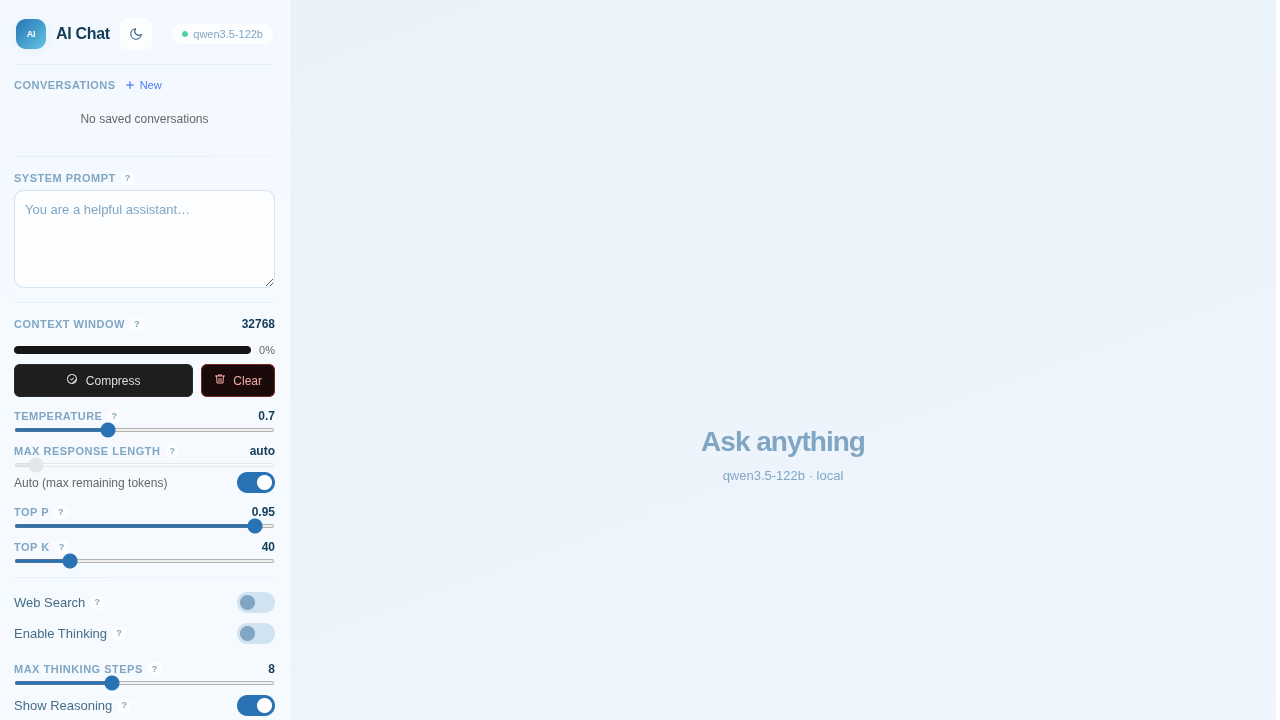
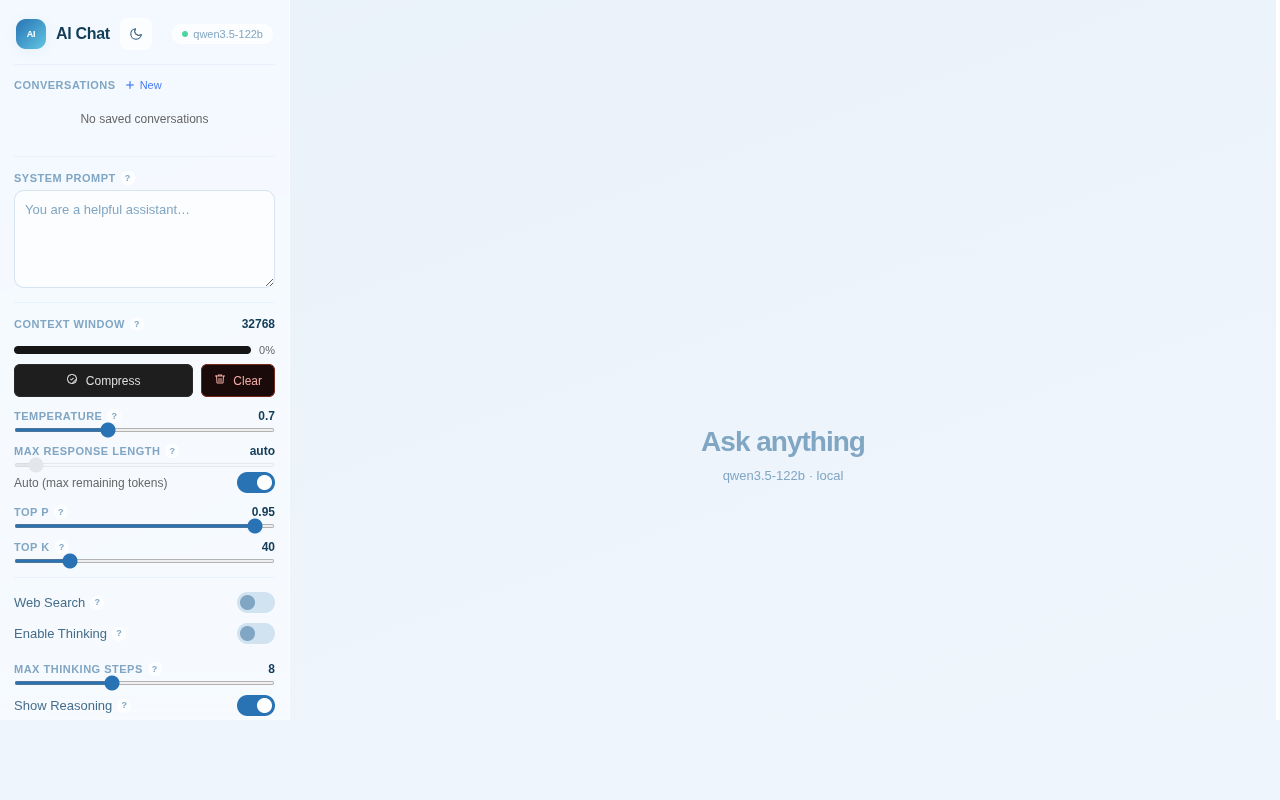
fix: improve app card thumbnail display and screenshot quality
- Change aspect-ratio from 4/3 to 16/10 to avoid cropping wide screenshots
- Add object-position: top center to always show page top
- Normalize all screenshots to consistent 1280x800 dimensions

diff --git a/css/index.css b/css/index.css
@@ -257,8 +257,9 @@ a:focus-visible {
 
 .app-thumb {
     width: 100%;
-    aspect-ratio: 4 / 3;
+    aspect-ratio: 16 / 10;
     object-fit: cover;
+    object-position: top center;
     border-radius: 14px;
     border: 1px solid rgba(30, 74, 99, 0.16);
     display: block;
